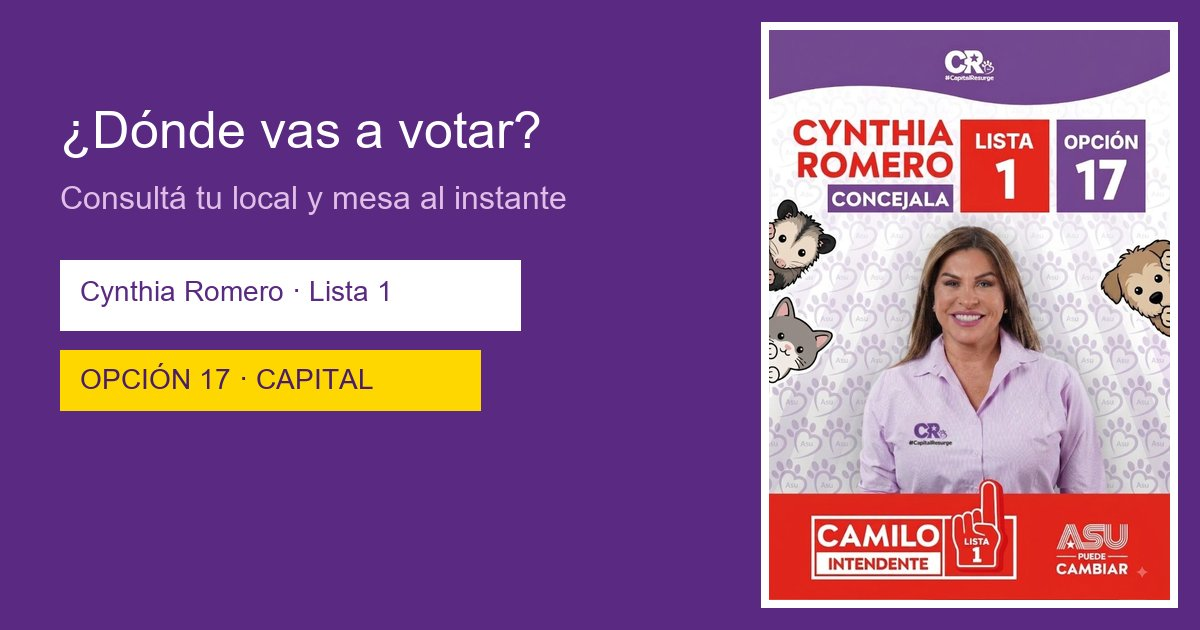
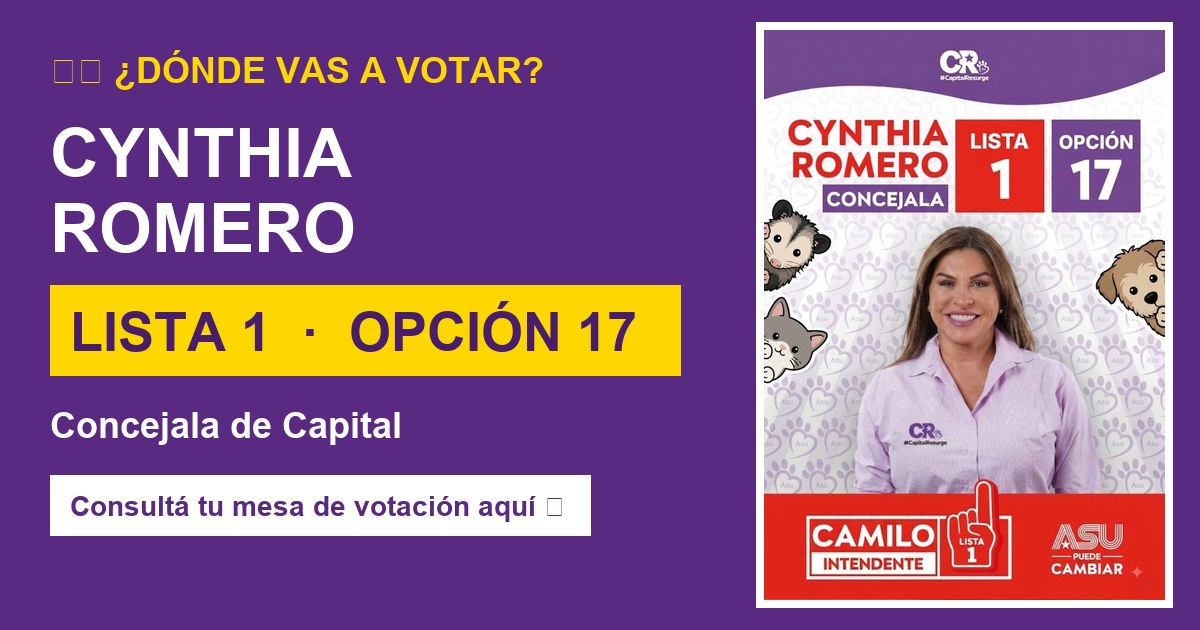
fix: optimizar imagen cynthia.jpg (153kb) y meta tags para previsualizacion whatsapp

diff --git a/index.html b/index.html
@@ -7,8 +7,8 @@
   <meta property="og:site_name"   content="Padrón Electoral" />
   <meta property="og:title"       content="¿Dónde vas a votar?" />
   <meta property="og:description" content="Cynthia Romero Lista 1 Opción 17 · Camilo Lista 1" />
-  <meta property="og:image"       content="https://dondevoto.netlify.app/og_share.jpg?v=3" />
-  <meta property="og:image:secure_url" content="https://dondevoto.netlify.app/og_share.jpg?v=3" />
+  <meta property="og:image"       content="https://dondevoto.netlify.app/og_share.jpg?v=4" />
+  <meta property="og:image:secure_url" content="https://dondevoto.netlify.app/og_share.jpg?v=4" />
   <meta property="og:image:type"   content="image/jpeg" />
   <meta property="og:image:width"  content="1200" />
   <meta property="og:image:height" content="630" />
@@ -17,7 +17,7 @@
   <meta name="twitter:card"        content="summary_large_image" />
   <meta name="twitter:title"       content="¿Dónde vas a votar?" />
   <meta name="twitter:description" content="Cynthia Romero Lista 1 Opción 17 · Camilo Lista 1" />
-  <meta name="twitter:image"       content="https://dondevoto.netlify.app/og_share.jpg?v=3" />
+  <meta name="twitter:image"       content="https://dondevoto.netlify.app/og_share.jpg?v=4" />
   <link href="https://fonts.googleapis.com/css2?family=Montserrat:wght@400;600;700;900&display=swap" rel="stylesheet" />
   <style>
     :root {
